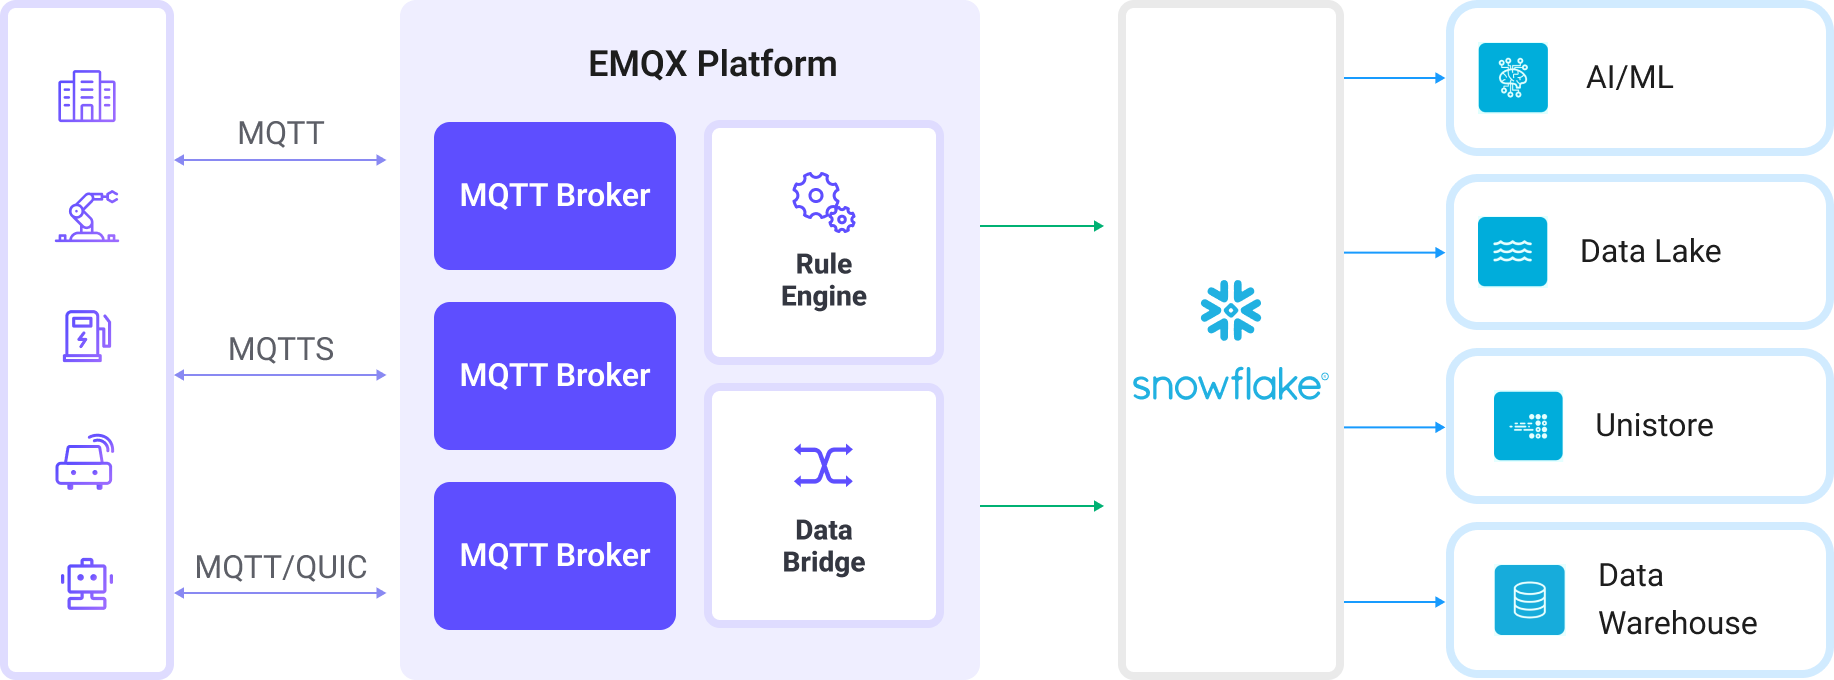
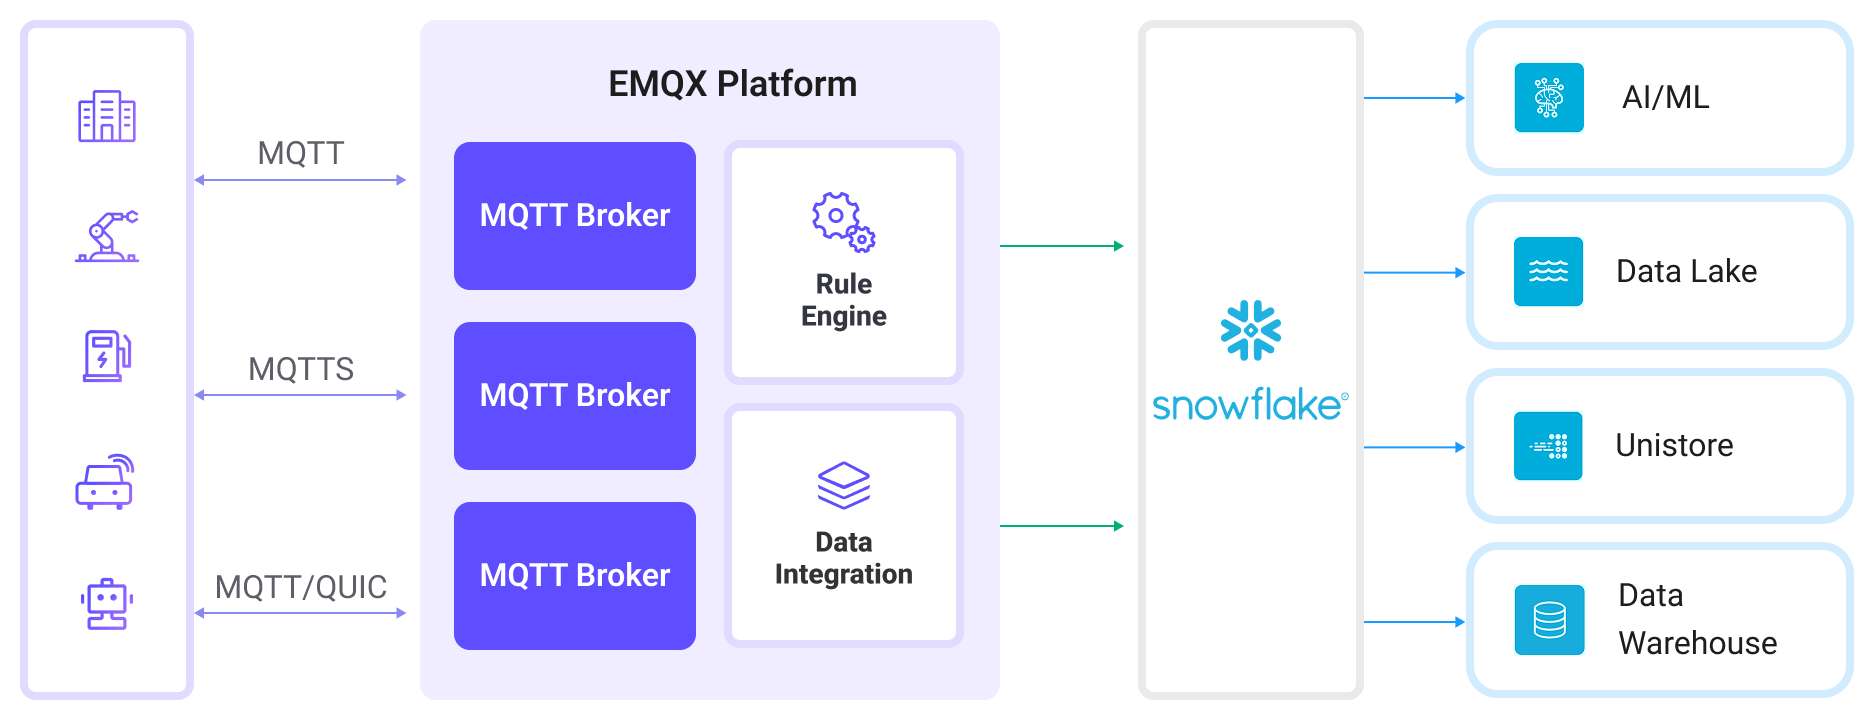
update(bigquery): Add architecture diagrams

diff --git a/en_US/data-integration/bigquery.md b/en_US/data-integration/bigquery.md
@@ -2,11 +2,13 @@
 
 [BigQuery](https://cloud.google.com/bigquery?hl=en) is an enterprise data warehouse for large amounts of relational structured data. It is optimized for large-scale, ad-hoc SQL-based analysis and reporting, which makes it best suited for gaining organizational insights. EMQX supports seamless integration with BigQuery for real-time extraction, processing, and analysis of MQTT data.
 
-This page provides a comprehensive introduction to the data integration between EMQX and BigQuery with practical instructions on creating and validating the data integration.
+This page provides a comprehensive introduction to the data integration between EMQX and BigQuery, with practical instructions on creating and validating the data integration.
 
 ## How It Works
 
 BigQuery data integration is an out-of-the-box feature of EMQX designed to help users seamlessly integrate MQTT data streams with Google Cloud and leverage its rich services and capabilities for IoT application development.
+
+![bigquery_architecture](./assets/bigquery_architecture.png)
 
 EMQX forwards MQTT data to BigQuery through the rule engine and Sink. The complete process is as follows:
 
@@ -83,7 +85,7 @@ Before configuring the BigQuery data integration on EMQX, you must create the re
 
    - Select the dataset and click **Share**.  
    - Add your Service Account email as a principal.
-   - Assign appropiate roles, such as:
+   - Assign appropriate roles, such as:
      - "BigQuery Data Viewer" (read access) for the dataset
      - "Editor" (read and write access) for the table
 
@@ -166,7 +168,7 @@ This section demonstrates how to create a rule to specify the data to be saved i
 
 You have now successfully created the rule. You can see the newly created rule on the **Integration** -> **Rules** page. Click the **Actions(Sink)** tab and you can see the new BigQuery Sink.
 
-You can also click **Integration** -> **Flow Designer** to view the topology and you can that the messages under topic `t/bq` are sent and saved to BigQuery after parsing by rule `my_rule`.
+You can also click **Integration** -> **Flow Designer** to view the topology and you can see that the messages under topic `t/bq` are sent and saved to BigQuery after parsing by rule `my_rule`.
 
 ## Test the Rule
 
@@ -187,10 +189,10 @@ This section delves into the advanced configuration options available for the Bi
 | Field Name                       | Description                                                  | Default Value   |
 | -------------------------------- | ------------------------------------------------------------ | --------------- |
 | **Buffer Pool Size**             | Specifies the number of buffer worker processes, which are allocated to manage the data flow between EMQX and BigQuery. These workers temporarily store and process data before sending it to the target service, crucial for optimizing performance and ensuring smooth data transmission. | `16`            |
-| **Request TTL**                  | The "Request TTL" (Time To Live) configuration setting specifies the maximum duration, in seconds, that a request is considered valid once it enters the buffer. This timer starts ticking from the moment the request is buffered. If the request stays in the buffer for a period exceeding this TTL setting or if it is sent but does not receive a timely response or acknowledgment from BigQuery, the request is deemed to have expired. | `45` second     |
-| **Health Check Interval**        | Specifies the time interval (in seconds) for the Sink to perform automatic health checks on its connection with BigQuery. | `15` second     |
+| **Request TTL**                  | The "Request TTL" (Time To Live) configuration setting specifies the maximum duration, in seconds, that a request is considered valid once it enters the buffer. This timer starts ticking from the moment the request is buffered. If the request stays in the buffer for a period exceeding this TTL setting or if it is sent but does not receive a timely response or acknowledgment from BigQuery, the request is deemed to have expired. | `45` seconds    |
+| **Health Check Interval**        | Specifies the time interval (in seconds) for the Sink to perform automatic health checks on its connection with BigQuery. | `15` seconds    |
 | **Health Check Interval Jitter** | A uniform random delay added on top of the base health check interval to reduce the chance that multiple nodes initiate health checks at the same time. This helps avoid burst traffic, reduces the risk of triggering downstream rate limits (e.g., API throttling), and improves system stability. When multiple Actions or Sources share the same Connector, enabling jitter ensures their health checks are initiated at slightly different times. | `0` millisecond |
-| **Health Check Timeout**         | Specify the timeout duration for the connector to perform automatic health checks on its connection with BigQuery. | `60` second     |
+| **Health Check Timeout**         | Specify the timeout duration for the connector to perform automatic health checks on its connection with BigQuery. | `60` seconds    |
 | **Max Buffer Queue Size**        | Specifies the maximum number of bytes that can be buffered by each buffer worker process in the BigQuery Sink. The buffer workers temporarily store data before sending it to BigQuery, acting as intermediaries to handle the data stream more efficiently. Adjust this value based on system performance and data transmission requirements. | `256`           |
 | **Query Mode**                   | Allows you to choose between `synchronous` or `asynchronous` request modes to optimize message transmission according to different requirements. In asynchronous mode, writing to BigQuery does not block the MQTT message publishing process. However, this may lead to clients receiving messages before they arrive at BigQuery. | `Async`         |
 | **Batch Size**                   | Specifies the maximum size of data batches transmitted from EMQX to BigQuery in a single transfer operation. By adjusting the size, you can fine-tune the efficiency and performance of data transfer between EMQX and BigQuery. If the "Batch Size" is set to "1," data records are sent individually, without being grouped into batches. | `1000`          |

diff --git a/zh_CN/data-integration/bigquery.md b/zh_CN/data-integration/bigquery.md
@@ -8,6 +8,8 @@
 
 BigQuery 数据集成是 EMQX 提供的开箱即用功能，旨在帮助用户将 MQTT 数据流无缝集成到 Google Cloud 中，并利用其丰富的服务和能力来构建物联网应用。
 
+![bigquery_architecture](./assets/bigquery_architecture.png)
+
 EMQX 通过规则引擎和 Sink 将 MQTT 数据转发至 BigQuery，完整流程如下：
 
 1. **物联网设备发布消息**：设备通过特定的主题发布遥测数据和状态信息，从而触发规则引擎。
@@ -35,7 +37,7 @@ EMQX 通过规则引擎和 Sink 将 MQTT 数据转发至 BigQuery，完整流程
 
 ### 创建服务账户凭证
 
-为了使 EMQX 能够连接到 BigQuery 服务，您需要在 Google Cloud 中创建一个服务账号，并生成一个 JSON 格式的密钥。
+为了使 EMQX 能够连接到 BigQuery 服务，您需要在 Google Cloud 中创建一个服务账户，并生成一个 JSON 格式的密钥。
 
 1. 在您的 GCP 账户中创建一个[服务账户](https://developers.google.com/identity/protocols/oauth2/service-account#creatinganaccount)。确保该服务账号拥有访问所需数据集和数据表的权限。例如，您可以授予其 “BigQuery Data Editor” 角色，以便对相关数据集或数据表进行读写操作，或者至少确保其具备读取和写入数据的权限。
 
@@ -173,7 +175,7 @@ EMQX 通过规则引擎和 Sink 将 MQTT 数据转发至 BigQuery，完整流程
    mqttx pub -i emqx_c -t t/bq -m '{ "msg": "hello BigQuery" }'
    ```
 
-2. 检查 Sink 的运行状态，应该会看到一条新的传入消息和一条新的传出消息。
+2. 检查 Sink 的运行状态，此时应能看到一条新的传入消息和一条新的传出消息。
 
 3. 登录 GCP 控制台，进入 **BigQuery** -> **Studio**，点击您的数据表，然后点击**查询** 并执行查询语句，您应该可以看到刚发送的消息。
 

diff --git a/en_US/data-integration/data-bridge-gcp-pubsub.md b/en_US/data-integration/data-bridge-gcp-pubsub.md
@@ -154,7 +154,7 @@ This section demonstrates how to create a rule to specify the data to be saved i
 
 You have now successfully created the rule. You can see the newly created rule on the **Integration** -> **Rules** page. Click the **Actions(Sink)** tab and you can see the new Google PubSub Producer Sink.
 
-You can also click **Integration** -> **Flow Designer** to view the topology and you can that the messages under topic `/devices/+/events` are sent and saved to GCP Pub/Sub after parsing by rule `my_rule`.
+You can also click **Integration** -> **Flow Designer** to view the topology and you can see that the messages under topic `/devices/+/events` are sent and saved to GCP Pub/Sub after parsing by rule `my_rule`.
 
 ## Test the Producer Rule
 
